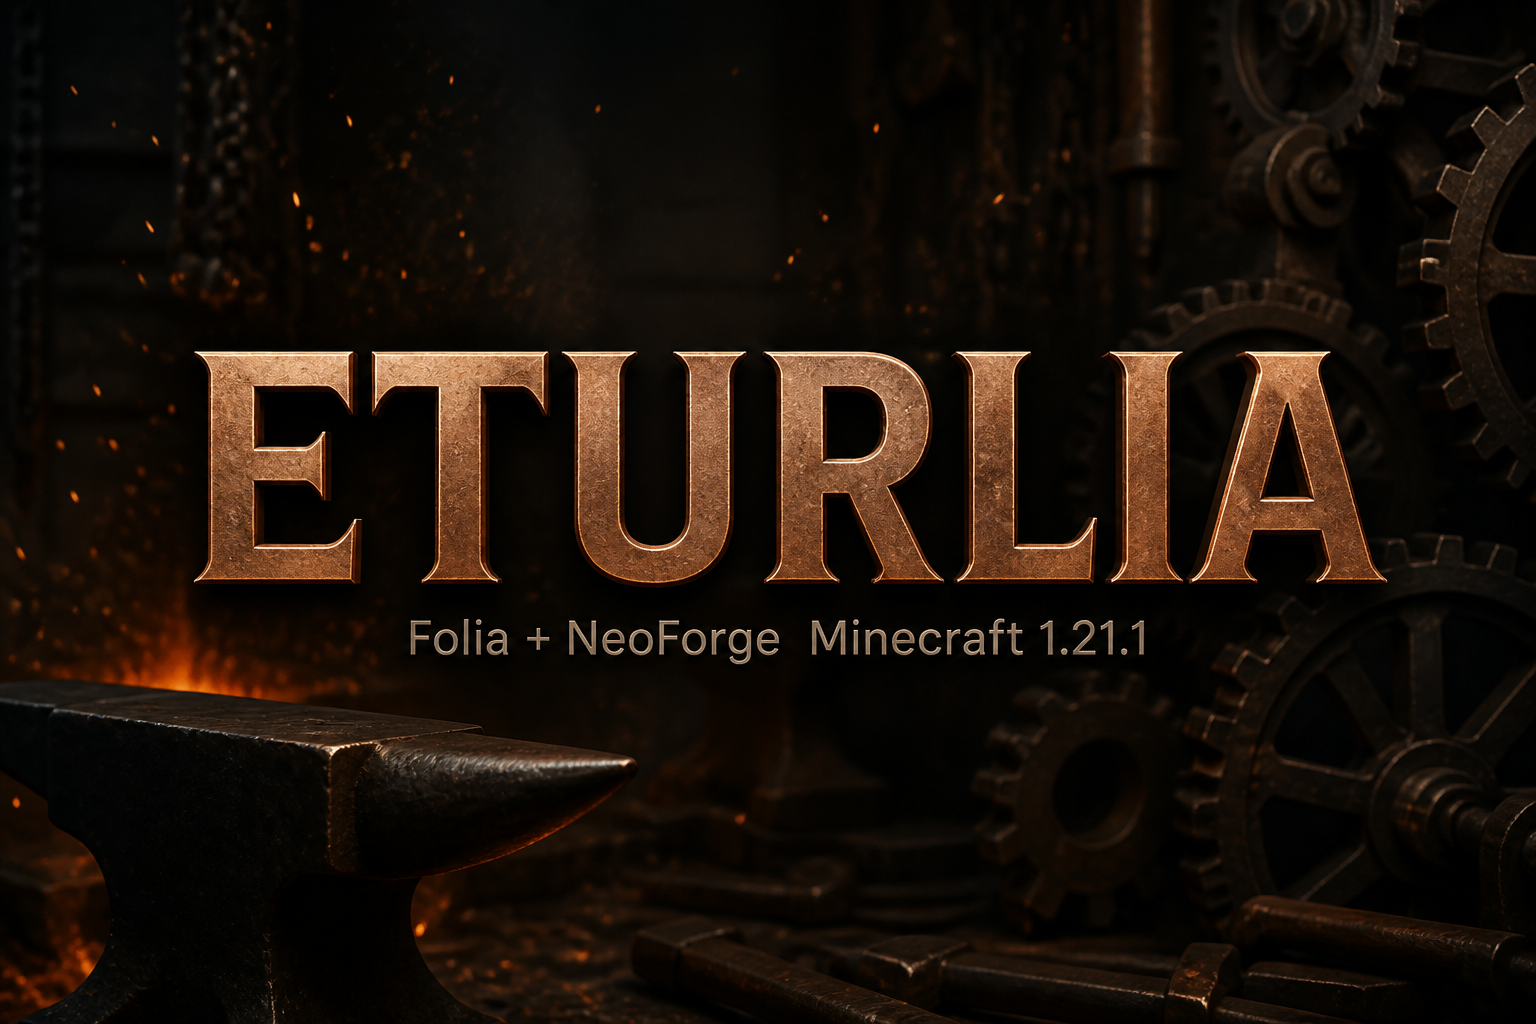
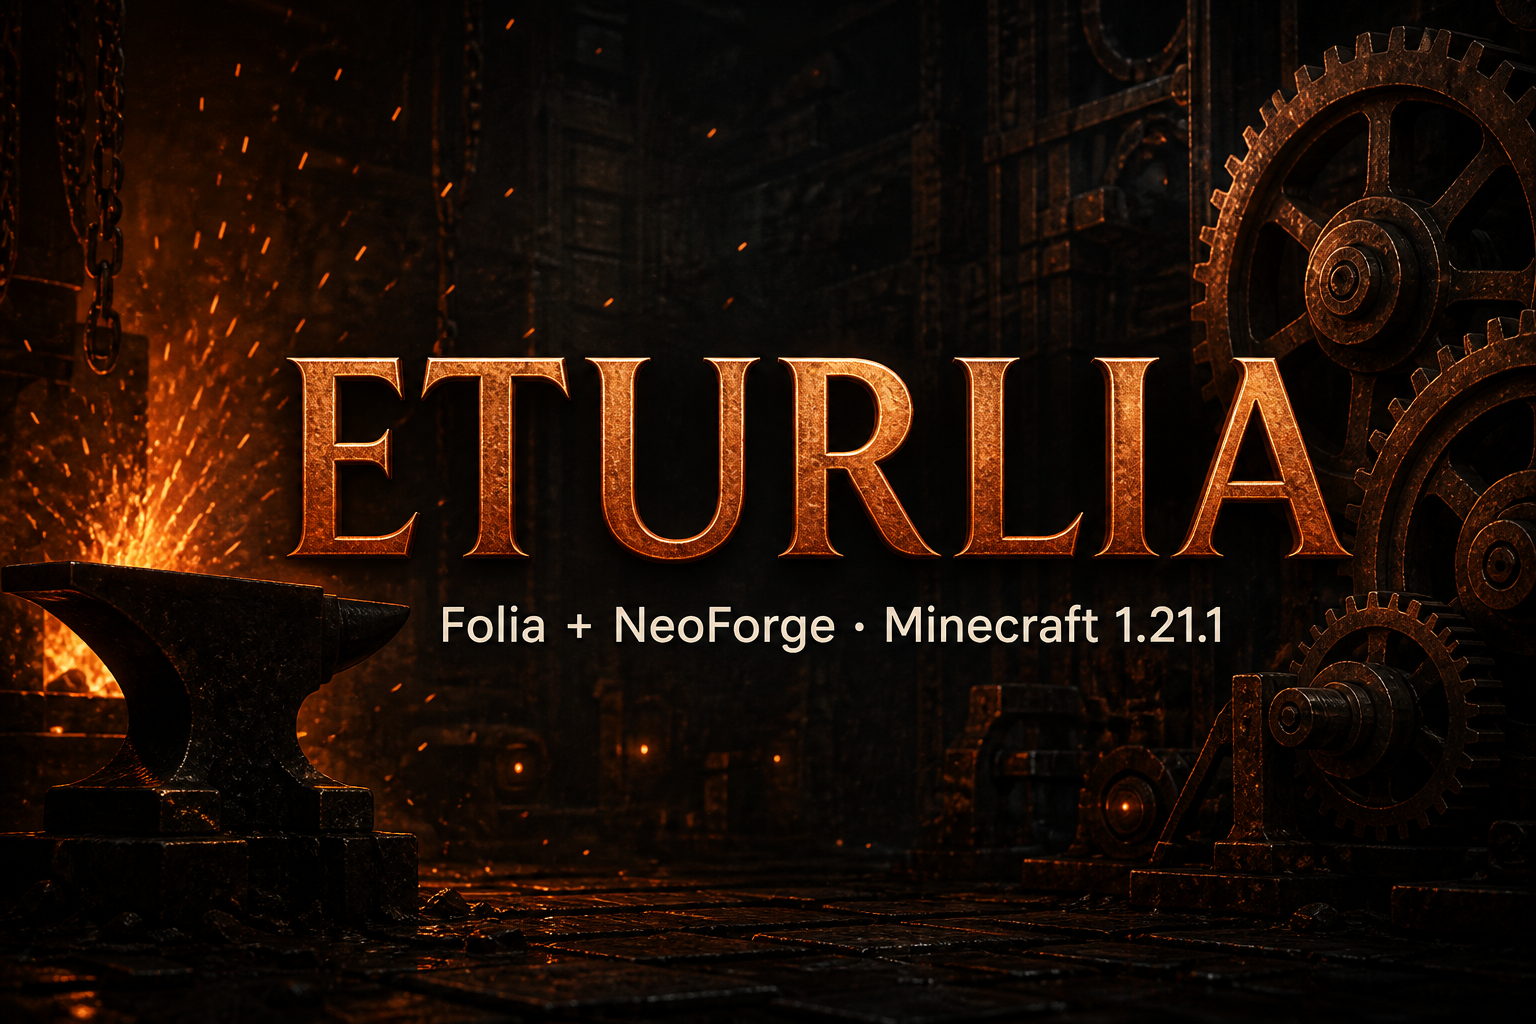
Polish Eturlia docs: drop rebrand noise, expand how-it-works
Rewrite README as a professional product page (RU + EN) with boot/build
explanations and no former-name table. Replace the banner with a clean
Eturlia-only forge visual.

diff --git a/README.md b/README.md
@@ -1,7 +1,8 @@
 <div align="center">
   <img src="./eturlia.png" alt="Eturlia" width="900">
   <h1>Eturlia</h1>
-  <p>Ядро сервера Minecraft <strong>1.21.1</strong>: регионы Folia + загрузка модов NeoForge</p>
+  <p>Гибридное серверное ядро Minecraft <strong>1.21.1</strong><br>
+  региональная многопоточность Folia · загрузка модов NeoForge</p>
   <p><a href="#русский">Русский</a> · <a href="#english">English</a></p>
 </div>
 
@@ -12,16 +13,19 @@
 # Русский
 
 > [!WARNING]
-> Экспериментальный проект. **Не для продакшена.** Делайте бэкапы миров. Многие моды несовместимы с региональной многопоточностью Folia.
+> Экспериментальный проект. **Не для продакшена.** Делайте бэкапы миров.
+> Многие моды рассчитаны на один серверный поток Vanilla/Forge и ломаются на региональной модели Folia.
 
 ## Что такое Eturlia
 
-**Eturlia** — гибридное серверное ядро: один fat-jar, в котором одновременно работают
+**Eturlia** — одно jar-ядро, в котором одновременно живут два стека:
 
-- **[Folia](https://github.com/PaperMC/Folia)** — форк Paper с независимыми тик-регионами на нескольких ядрах CPU;
-- **[NeoForge](https://github.com/neoforged/NeoForge) 21.1.248** — загрузка NeoForge-модов через FancyModLoader (FML 4.0.43).
+| Слой | Роль |
+|------|------|
+| **[Folia](https://github.com/PaperMC/Folia)** | Форк Paper: мир режется на независимые тик-регионы, которые крутятся на разных ядрах CPU |
+| **[NeoForge](https://github.com/neoforged/NeoForge) 21.1.248** | Модлоадер (FancyModLoader 4.0.43): `mods/`, RegisterEvent, lifecycle, datapacks, mixins |
 
-Идея простая: взять масштабируемость Folia и дать серверу нормальный модлоадер NeoForge, чтобы техпаки (Create и рядом) могли жить на многопоточном ядре — по мере закрытия runtime-дыр Folia↔NeoForge.
+Цель — масштабирование Folia без отказа от экосистемы NeoForge (Create, Farmers Delight и соседние техпаки), по мере закрытия runtime-разрывов между региональной моделью и ожиданиями модов.
 
 | | |
 |---|---|
@@ -32,29 +36,50 @@
 
 ## Как это работает
 
+### Загрузка (runtime)
+
 ```text
-java -jar eturlia-….jar
+java -jar eturlia-1.21.1-neoforge-21.1.248.jar
         │
         ▼
- Eturlia launcher  ──►  распаковка nested libs (Folia, FML, NeoForge, runtime)
+ Eturlia launcher
+   · распаковка nested libs (Folia, FML, NeoForge, runtime)
+   · подготовка classpath и launch services
         │
         ▼
- ModLauncher / FML   ──►  scan mods/, bootstrap NeoForge
+ ModLauncher / FancyModLoader
+   · scan каталога mods/
+   · bootstrap NeoForge, coremods, mixins
         │
         ▼
- Folia / Paper server ──►  регионы, чанки, плагины (folia-supported)
+ Folia / Paper server
+   · регионы, чанки, сущности, плагины (folia-supported)
         │
         ▼
- NeoForge hooks       ──►  RegisterEvent, lifecycle, datapacks, mixins
+ NeoForge hooks в NMS
+   · RegisterEvent, game lifecycle, datapack reload, API-расширения
 ```
 
-1. **Сборка патчами** — paperweight накатывает `patches/api` и `patches/server` (Folia + хуки NeoForge) на апстрим Paper.
-2. **Шимы** (`build-data/eturlia-neoforge-shims`) — stub-API, чтобы NMS/Folia-исходники компилировались против сигнатур NeoForge.
-3. **Runtime** — в jar вложен опубликованный NeoForge universal **21.1.248** (не чужой major).
-4. **Coremods** — SPI `ICoreMod` (NeoForge 21.1): редирект main → `EturliaServer`, служебные трансформы.
-5. **Совместимость** — модули `eturlia-compat-create` / `eturlia-compat-sable` (отдельно; закрывают region-bridges, не все API-дыры ядра).
+1. **Launcher** поднимает вложенные библиотеки из fat-jar и передаёт управление ModLauncher.
+2. **FML** находит моды, прогоняет discovery / loading / common setup и подключает coremods Eturlia (редирект `main` → `EturliaServer` и служебные трансформы).
+3. **Folia** тикает мир по регионам: соседние чанки могут жить на разных потоках; кросс-регионные обращения требуют правильных планировщиков.
+4. **Патчи ядра** вшивают в Folia/Paper API и поведение, которые ожидает NeoForge (регистры, food/crafting/fire, reload, entity-list фасады и т.д.).
 
-Слой ядра сейчас закрывает не «FML не стартует», а **runtime gaps**: intrusive holders, Folia `entityTickList`, reload/ContextAware, Crafting/Rarity/FireBlock-API и т.д. Create / Moonlight / Sable ещё не полностью зелёные — это следующий слой (DeferredHolder timing, entity-section/refmap).
+### Сборка (dev)
+
+1. **paperweight** накатывает `patches/api` и `patches/server` (апстрим Folia + слой Eturlia/NeoForge) на Paper.
+2. **Шимы** (`build-data/eturlia-neoforge-shims`) дают stub-сигнатуры NeoForge, чтобы NMS/Folia компилировались без полного дерева NeoForge в compile classpath.
+3. В runtime в jar вложен опубликованный **NeoForge universal 21.1.248** — тот же major, что у целевых модов.
+4. Опциональные модули `eturlia-compat-create` / `eturlia-compat-sable` закрывают узкие region-bridges; они не заменяют пробелы в самом ядре.
+
+### Почему моды всё ещё могут падать
+
+Стартовый путь FML уже проходит. Текущий слой работы — **runtime gaps**: мод вызывает API или полагается на однопоточный NMS, которого нет или оно ведёт себя иначе под Folia. Типичные классы проблем:
+
+- holders / DeferredHolder / порядок RegisterEvent;
+- Folia entity tick list / section managers вместо vanilla-структур;
+- remapping / refmap у mixin-модов;
+- однопоточные допущения в Create, Moonlight и соседних библиотеках.
 
 ## Версии
 
@@ -63,7 +88,7 @@ java -jar eturlia-….jar
 | Minecraft | 1.21.1 |
 | NeoForge | **21.1.248** |
 | FancyModLoader | 4.0.43 |
-| Paper upstream | `84281cee…` (ветка Folia `dev/1.21.1`) |
+| Paper upstream | `84281cee…` (Folia `dev/1.21.1`) |
 | Java | **21** |
 
 ## Сборка
@@ -90,20 +115,20 @@ java -jar build/libs/eturlia-1.21.1-neoforge-21.1.248.jar --nogui
 ```
 
 - Первый запуск: примите `eula.txt`.
-- Моды NeoForge → каталог `mods/`.
+- Моды NeoForge → `mods/`.
 - Плагины Bukkit/Paper → только с `folia-supported: true`.
 - **Не кладите** отдельный `spark-neoforge` в `mods/` — spark уже вшит в Folia (конфликт JPMS).
 
-## Что уже проходит (smoke)
+## Smoke-статус
 
 | Набор | Статус |
 |-------|--------|
 | Пустой сервер / лёгкий стек (Cloth, Curios, GeckoLib, JEI, …) | Mod List + SML + Folia `Done` |
 | Farmers Delight (+ Cloth) | SML completed + `Done` |
-| Create | частично: ядровые API закрываются, остаются DeferredHolder / регистры |
+| Create | частично: ядровые API закрываются; остаются DeferredHolder / регистры |
 | Moonlight | частично: ContextAware / FireBlock; дальше Folia entity mixins / refmap |
 
-## Архитектура репозитория
+## Структура репозитория
 
 | Путь | Назначение |
 |------|------------|
@@ -127,24 +152,27 @@ java -jar build/libs/eturlia-1.21.1-neoforge-21.1.248.jar --nogui
 
 ---
 
-<details>
-<summary><strong>English</strong> — click to expand</summary>
+<details open>
+<summary><strong>English</strong></summary>
 
 <div id="english"></div>
 
 # English
 
 > [!WARNING]
-> Experimental. **Not for production.** Back up worlds. Many mods are incompatible with Folia region threading.
+> Experimental. **Not for production.** Back up worlds.
+> Many mods assume a single Vanilla/Forge server thread and break under Folia’s region threading.
 
 ## What Eturlia is
 
-**Eturlia** is a hybrid Minecraft server kernel: one fat jar that runs
+**Eturlia** is a single fat-jar server kernel that runs two stacks together:
 
-- **[Folia](https://github.com/PaperMC/Folia)** — Paper fork with independent per-region ticking across CPU cores;
-- **[NeoForge](https://github.com/neoforged/NeoForge) 21.1.248** — NeoForge mod loading via FancyModLoader (FML 4.0.43).
+| Layer | Role |
+|-------|------|
+| **[Folia](https://github.com/PaperMC/Folia)** | Paper fork: the world is split into independent tick regions across CPU cores |
+| **[NeoForge](https://github.com/neoforged/NeoForge) 21.1.248** | Mod loader (FancyModLoader 4.0.43): `mods/`, RegisterEvent, lifecycle, datapacks, mixins |
 
-The goal is Folia’s multi-core scaling with a real NeoForge mod pipeline, so Create-style packs can run as Folia↔NeoForge runtime gaps are closed.
+The goal is Folia’s multi-core scaling without giving up the NeoForge ecosystem (Create, Farmers Delight, and similar packs), as Folia↔NeoForge runtime gaps are closed.
 
 | | |
 |---|---|
@@ -155,29 +183,50 @@ The goal is Folia’s multi-core scaling with a real NeoForge mod pipeline, so C
 
 ## How it works
 
+### Boot (runtime)
+
 ```text
-java -jar eturlia-….jar
+java -jar eturlia-1.21.1-neoforge-21.1.248.jar
         │
         ▼
- Eturlia launcher  ──►  extract nested libs (Folia, FML, NeoForge, runtime)
+ Eturlia launcher
+   · extract nested libs (Folia, FML, NeoForge, runtime)
+   · prepare classpath and launch services
         │
         ▼
- ModLauncher / FML   ──►  scan mods/, bootstrap NeoForge
+ ModLauncher / FancyModLoader
+   · scan mods/
+   · bootstrap NeoForge, coremods, mixins
         │
         ▼
- Folia / Paper server ──►  regions, chunks, plugins (folia-supported)
+ Folia / Paper server
+   · regions, chunks, entities, plugins (folia-supported)
         │
         ▼
- NeoForge hooks       ──►  RegisterEvent, lifecycle, datapacks, mixins
+ NeoForge hooks in NMS
+   · RegisterEvent, game lifecycle, datapack reload, API extensions
 ```
 
-1. **Patched build** — paperweight applies `patches/api` + `patches/server` (Folia + NeoForge hooks) onto Paper.
-2. **Shims** (`build-data/eturlia-neoforge-shims`) — stub APIs so Folia/NMS sources compile against NeoForge signatures.
-3. **Runtime** — embeds published NeoForge universal **21.1.248**.
-4. **Coremods** — `ICoreMod` SPI: main → `EturliaServer`, support transforms.
-5. **Compat modules** — `eturlia-compat-create` / `eturlia-compat-sable` (optional; region bridges, not every core API gap).
+1. **Launcher** unpacks nested libraries from the fat jar and hands off to ModLauncher.
+2. **FML** discovers mods, runs discovery / loading / common setup, and applies Eturlia coremods (`main` → `EturliaServer` plus support transforms).
+3. **Folia** ticks the world by region: neighboring chunks may run on different threads; cross-region work needs the correct schedulers.
+4. **Core patches** teach Folia/Paper the APIs and behaviors NeoForge mods expect (registries, food/crafting/fire, reload, entity-list facades, and so on).
 
-The current core layer is about **runtime gaps** (intrusive holders, Folia `entityTickList`, ContextAware reload, crafting/rarity/fire APIs), not “FML never starts.” Create / Moonlight / Sable are not fully green yet.
+### Build (dev)
+
+1. **paperweight** applies `patches/api` and `patches/server` (upstream Folia + the Eturlia/NeoForge layer) onto Paper.
+2. **Shims** (`build-data/eturlia-neoforge-shims`) provide stub NeoForge signatures so Folia/NMS can compile without the full NeoForge tree on the compile classpath.
+3. Runtime embeds published **NeoForge universal 21.1.248** — the same major line as target mods.
+4. Optional `eturlia-compat-create` / `eturlia-compat-sable` modules cover narrow region bridges; they do not replace gaps in the core itself.
+
+### Why mods can still fail
+
+The FML boot path already works. The current work layer is **runtime gaps**: a mod calls an API or assumes single-threaded NMS that is missing or behaves differently under Folia. Typical failure classes:
+
+- holders / DeferredHolder / RegisterEvent ordering;
+- Folia entity tick list / section managers vs vanilla structures;
+- remapping / refmap issues in mixin mods;
+- single-thread assumptions in Create, Moonlight, and related libraries.
 
 ## Versions
 
@@ -201,14 +250,19 @@ Requires a **Git clone** (not a ZIP), **JDK 21**, and PaperMC + NeoForged Maven 
 
 Output: `build/libs/eturlia-1.21.1-neoforge-21.1.248.jar`
 
+```bash
+./patch.sh   # applyPatches
+./rb.sh      # rebuildServerPatches
+```
+
 ## Run
 
 ```bash
 java -jar build/libs/eturlia-1.21.1-neoforge-21.1.248.jar --nogui
 ```
 
-Accept `eula.txt` on first boot. NeoForge mods → `mods/`. Plugins need `folia-supported: true`.  
-**Do not** add `spark-neoforge` to `mods/` — spark is already bundled (JPMS conflict).
+Accept `eula.txt` on first boot. NeoForge mods go in `mods/`. Plugins need `folia-supported: true`.  
+**Do not** add `spark-neoforge` to `mods/` — spark is already bundled with Folia (JPMS conflict).
 
 ## Smoke status
 
